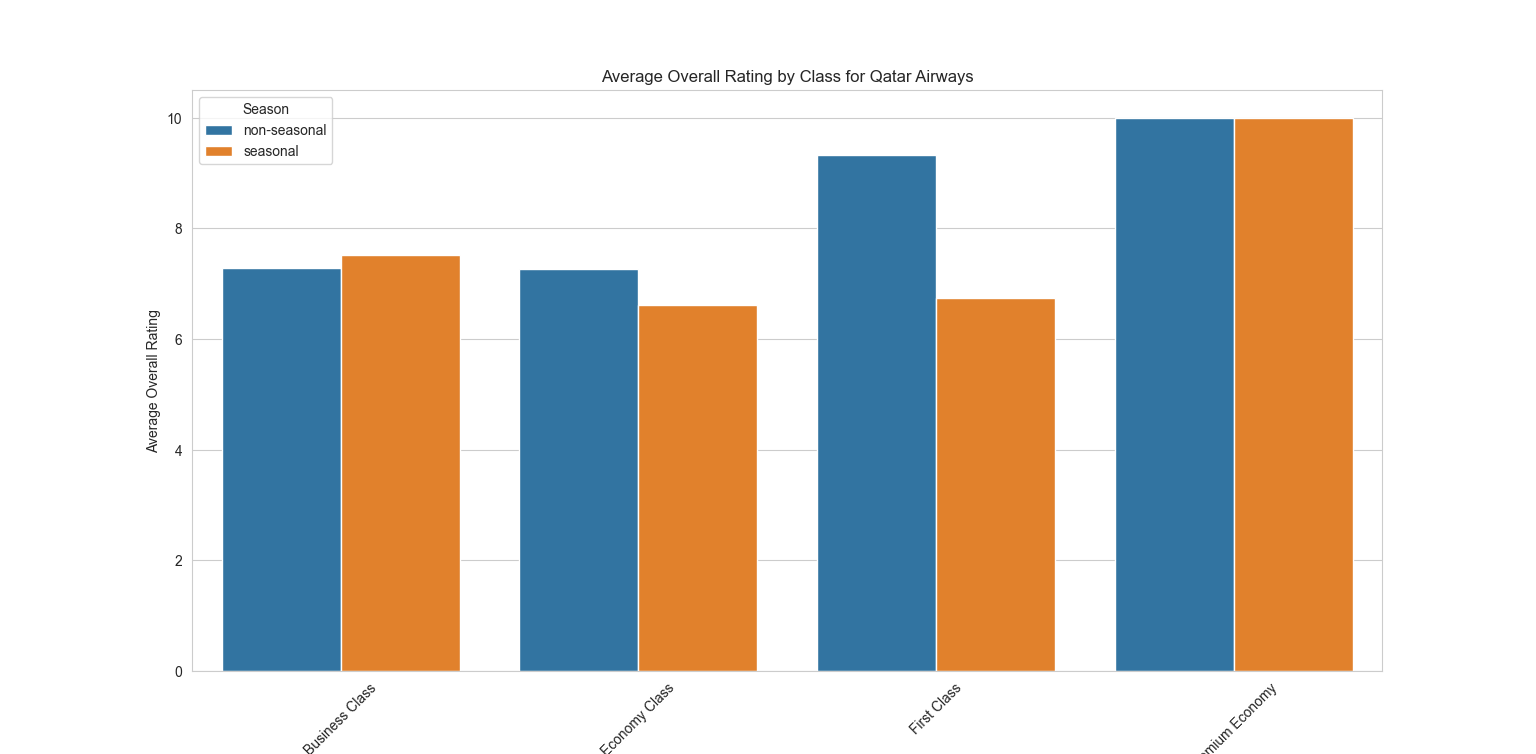
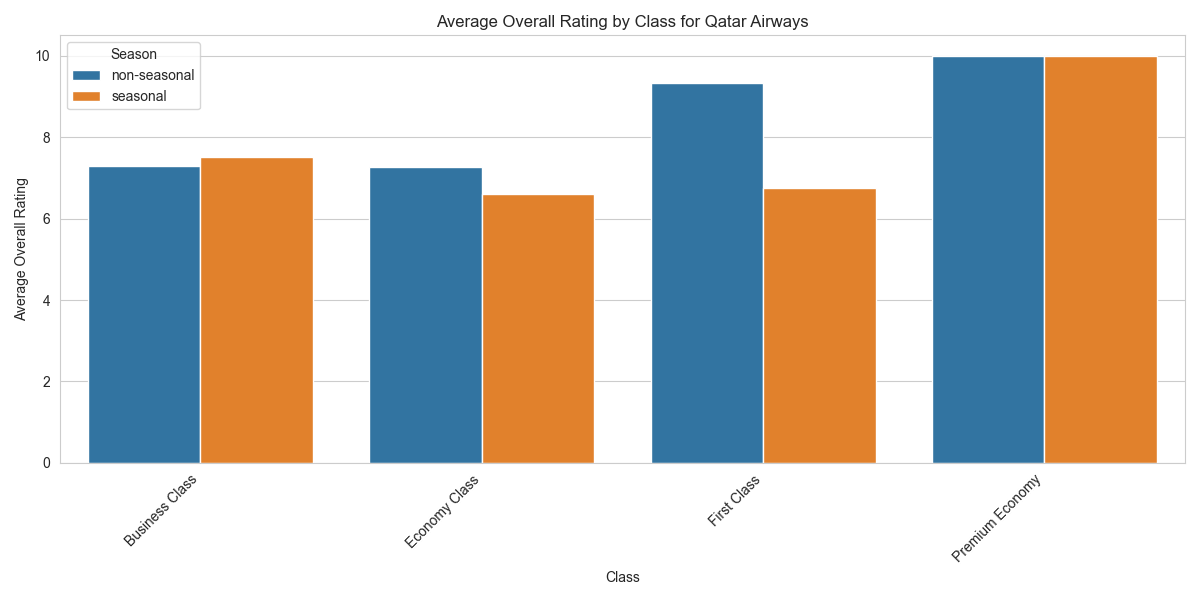
Changes

diff --git a/q7_analysis.py b/q7_analysis.py
@@ -18,23 +18,10 @@ for airline in airlines:
     plt.title(f'Average Overall Rating by Class for {airline}')
     plt.ylabel('Average Overall Rating')
     plt.xlabel('Class')
-    plt.xticks(rotation=45)
+    plt.xticks(rotation=45, ha='right') 
     plt.legend(title='Season')
+    plt.tight_layout()  
     plt.show()
-
-seasonal_comparison_data = df.groupby(['airline', 'season']).agg({
-    'AvgOverallRating': 'mean'
-}).reset_index()
-
-pivot_data = seasonal_comparison_data.pivot(index='airline', columns='season', values='AvgOverallRating').reset_index()
-
-pivot_data.plot(kind='bar', x='airline', figsize=(14, 8))
-plt.title('Average Overall Rating: Seasonal vs Non-Seasonal for Each Airline')
-plt.ylabel('Average Overall Rating')
-plt.xlabel('Airline')
-plt.xticks(rotation=45)
-plt.legend(title='Season')
-plt.show()
 
 rating_columns = ['AvgSeatComfort', 'AvgFoodnBeverages', 'AvgInflightEntertainment', 'AvgValueForMoney', 'AvgOverallRating']
 
@@ -49,3 +36,26 @@ plt.subplots_adjust(bottom=0.3)
 plt.xticks(rotation=0)
 
 plt.show()
+
+
+for column in rating_columns:
+    plt.figure(figsize=(12, 6))
+    sns.barplot(x='airline', y=column, hue='season', data=df, ci=None)
+    plt.title(f'{column} by Airline and Season')
+    plt.ylabel(column)
+    plt.xlabel('Airline')
+    plt.xticks(rotation=45, ha='right')  
+    plt.legend(title='Season')
+    plt.tight_layout()  
+    
+    
+    if column == 'AvgOverallRating':
+        plt.ylim(0, 10)
+    else:
+        plt.ylim(0, 5)
+    
+    for container in plt.gca().containers:
+        plt.setp(container, width=0.25)
+    
+    plt.show()
+
